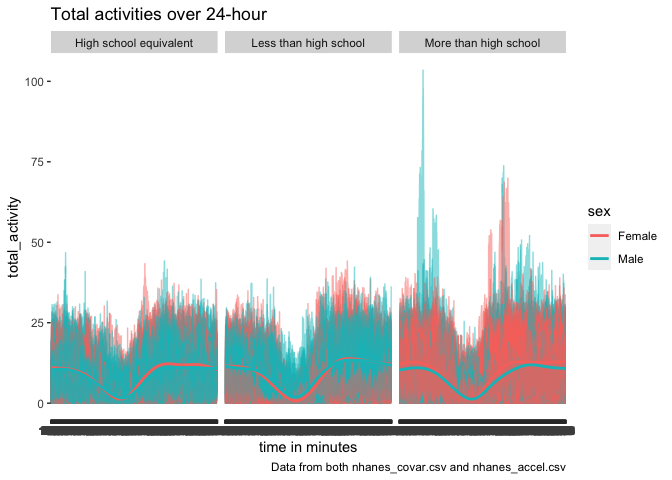
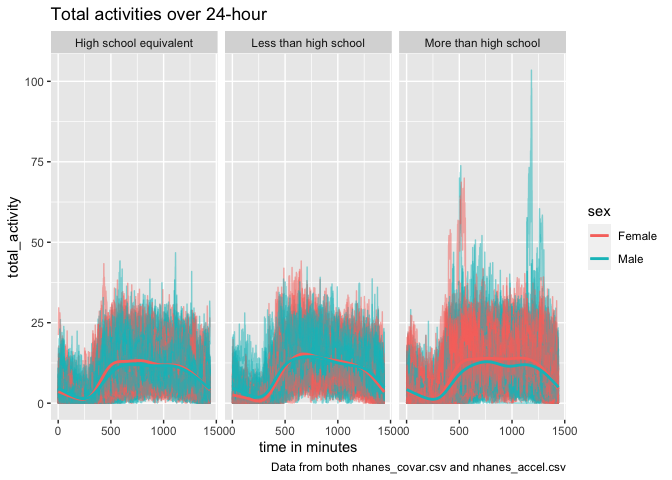
Office hour - Revise the problem

diff --git a/p8105_hw3_yx2858.md b/p8105_hw3_yx2858.md
@@ -270,7 +270,8 @@ accel_clean_df =
     names_to = "minutes", #rename the columns of "minutes" to represent time of minutes
     values_to = "val_min", #rename the columns of "val_min" to represent values of minutes
     names_prefix = "min" #remove the "min" in front of all column names
-  )
+  ) |>
+  mutate(minutes = as.numeric(minutes)) #change the variable minutes from characters to numerics
 ```
 
     ## Rows: 250 Columns: 1441
